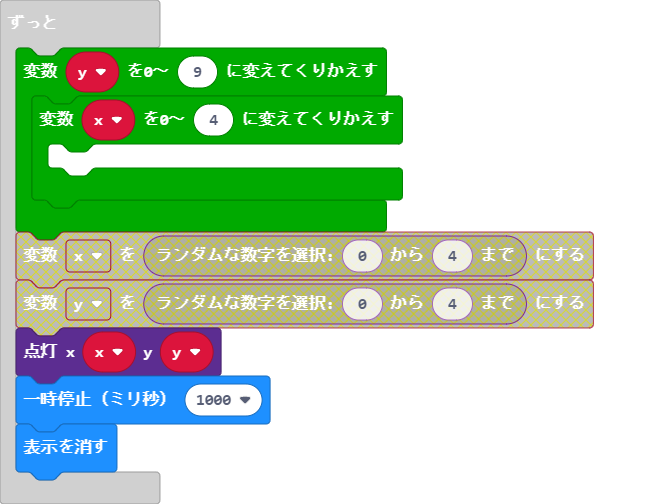
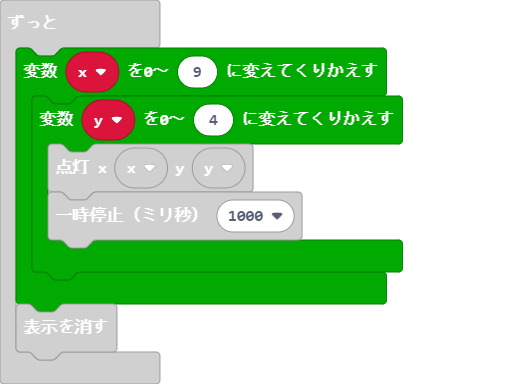
課題７－２

diff --git a/main.ts b/main.ts
@@ -1,6 +1,6 @@
 basic.forever(function () {
-    for (let y = 0; y <= 9; y++) {
-        for (let x = 0; x <= 4; x++) {
+    for (let x = 0; x <= 9; x++) {
+        for (let y = 0; y <= 4; y++) {
             led.plot(x, y)
             basic.pause(1000)
         }
